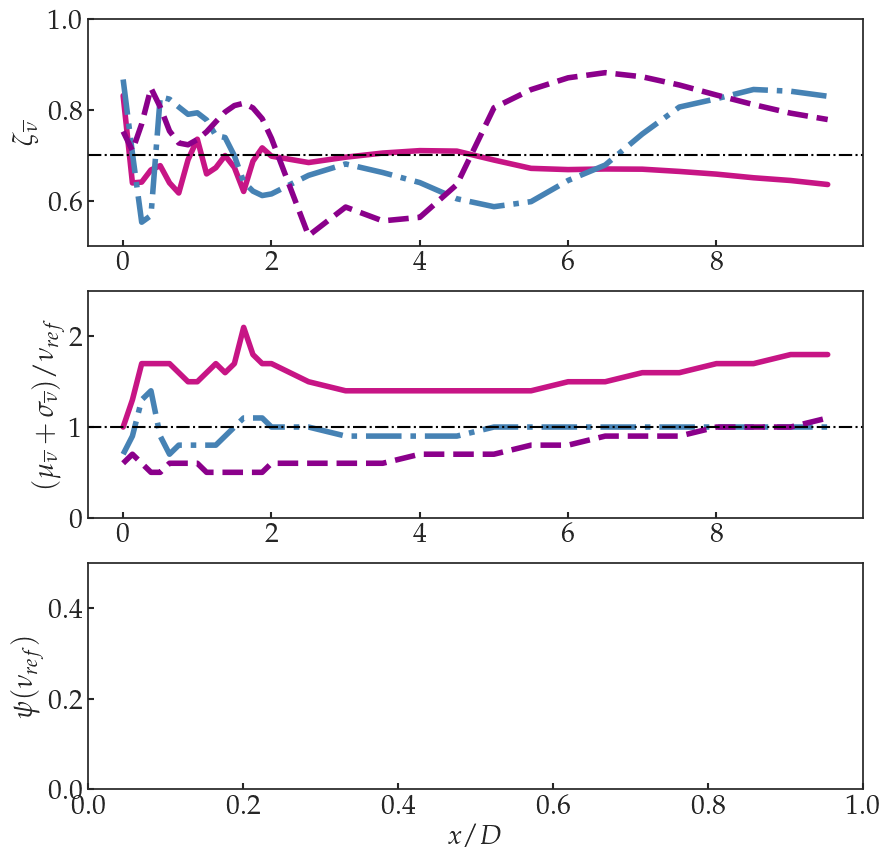
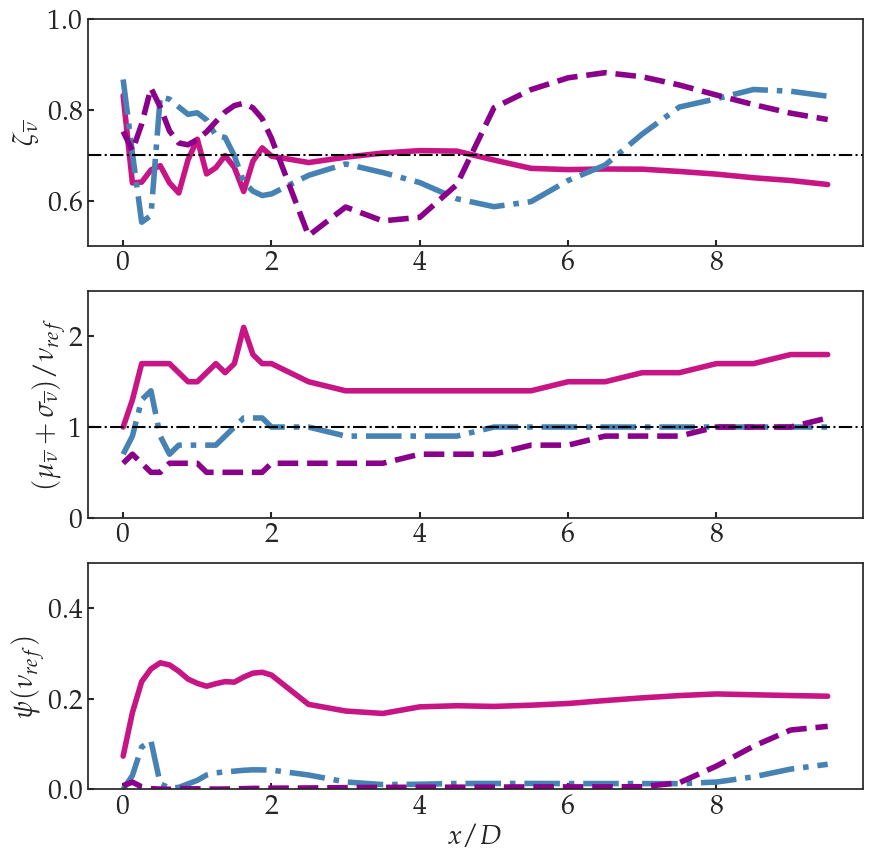
update

diff --git a/userHistogram/userPlotHistogramNoLogFactor.py b/userHistogram/userPlotHistogramNoLogFactor.py
@@ -227,8 +227,8 @@ def plot_nu_mean():
     
     higherOrderStat=dict.fromkeys(casesNonNewtonian)
     for case in casesNonNewtonian:
-        #higherOrderStat[case]={'mean':[],'rms':[],'skew':[],'kurt':[],'factor0':[], 'factor1':[], 'mean_tail':[], 'rms_tail':[]}
-        higherOrderStat[case]={'mean':[],'rms':[],'minimum':[],'maximum':[],'skew':[],'kurt':[],'factor0':[], 'factor1':[], 'mean_tail':[], 'rms_tail':[],'minimum_tail':[],'maximum_tail':[]}
+        higherOrderStat[case]={'mean':[],'rms':[],'minimum':[],'maximum':[],'skew':[],'kurt':[],'factor0':[], 'factor1':[], 'factor2':[], 'mean_tail':[], 'rms_tail':[],'minimum_tail':[],'maximum_tail':[]}
+        #higherOrderStat[case]={'mean':[],'rms':[],'minimum':[],'maximum':[],'skew':[],'kurt':[],'factor0':[], 'factor1':[], 'mean_tail':[], 'rms_tail':[],'minimum_tail':[],'maximum_tail':[]}
 
     for case in casesNonNewtonian:
         #for i, x in enumerate(axis_x):
@@ -399,8 +399,8 @@ def plot_nu_mean():
 
     for case in casesNonNewtonian:
         ax[0].plot(axis_x, higherOrderStat[case]['factor0'],label='factor0', linestyle=linestyleDict[case], linewidth=linewidthDict[case], color=colorDict[case])
-        ax[1].plot(axis_x, np.asarray(higherOrderStat[case]['factor1'])/1e-5,label='factor1', linestyle=linestyleDict[case], linewidth=linewidthDict[case], color=colorDict[case])
-        #ax[2].plot(axis_x, higherOrderStat[case]['factor2'],label='factor2', linestyle=linestyleDict[case], linewidth=linewidthDict[case], color=colorDict[case])
+        ax[1].plot(axis_x, higherOrderStat[case]['factor1']/1e-5,label='factor1', linestyle=linestyleDict[case], linewidth=linewidthDict[case], color=colorDict[case])
+        ax[2].plot(axis_x, higherOrderStat[case]['factor2'],label='factor2', linestyle=linestyleDict[case], linewidth=linewidthDict[case], color=colorDict[case])
 
     ax[0].set_ylim(0.5,1)
     ax[0].axhline(y=0.7, linestyle='-.', color='black')
